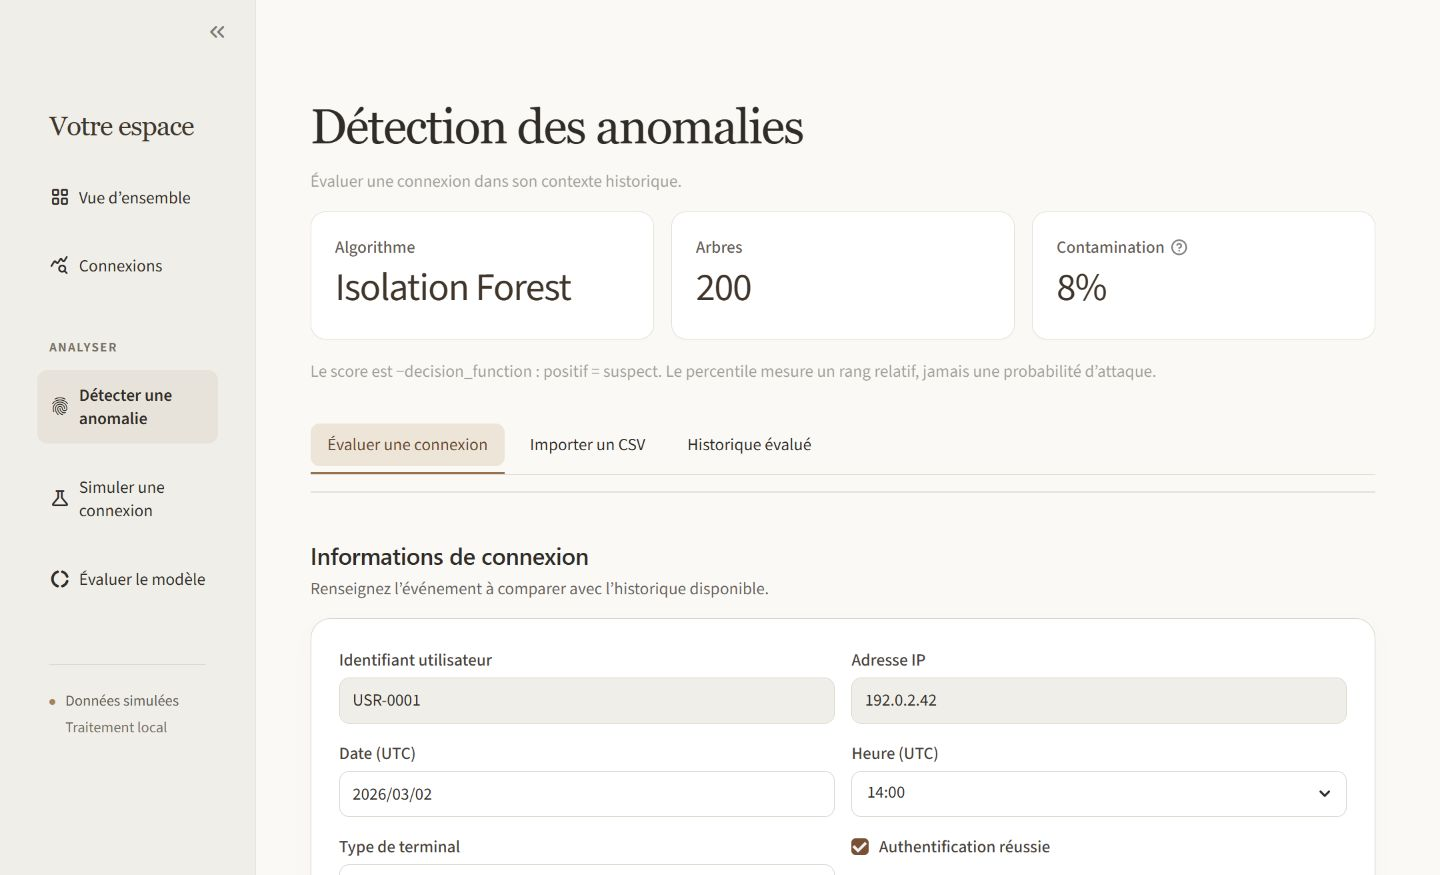
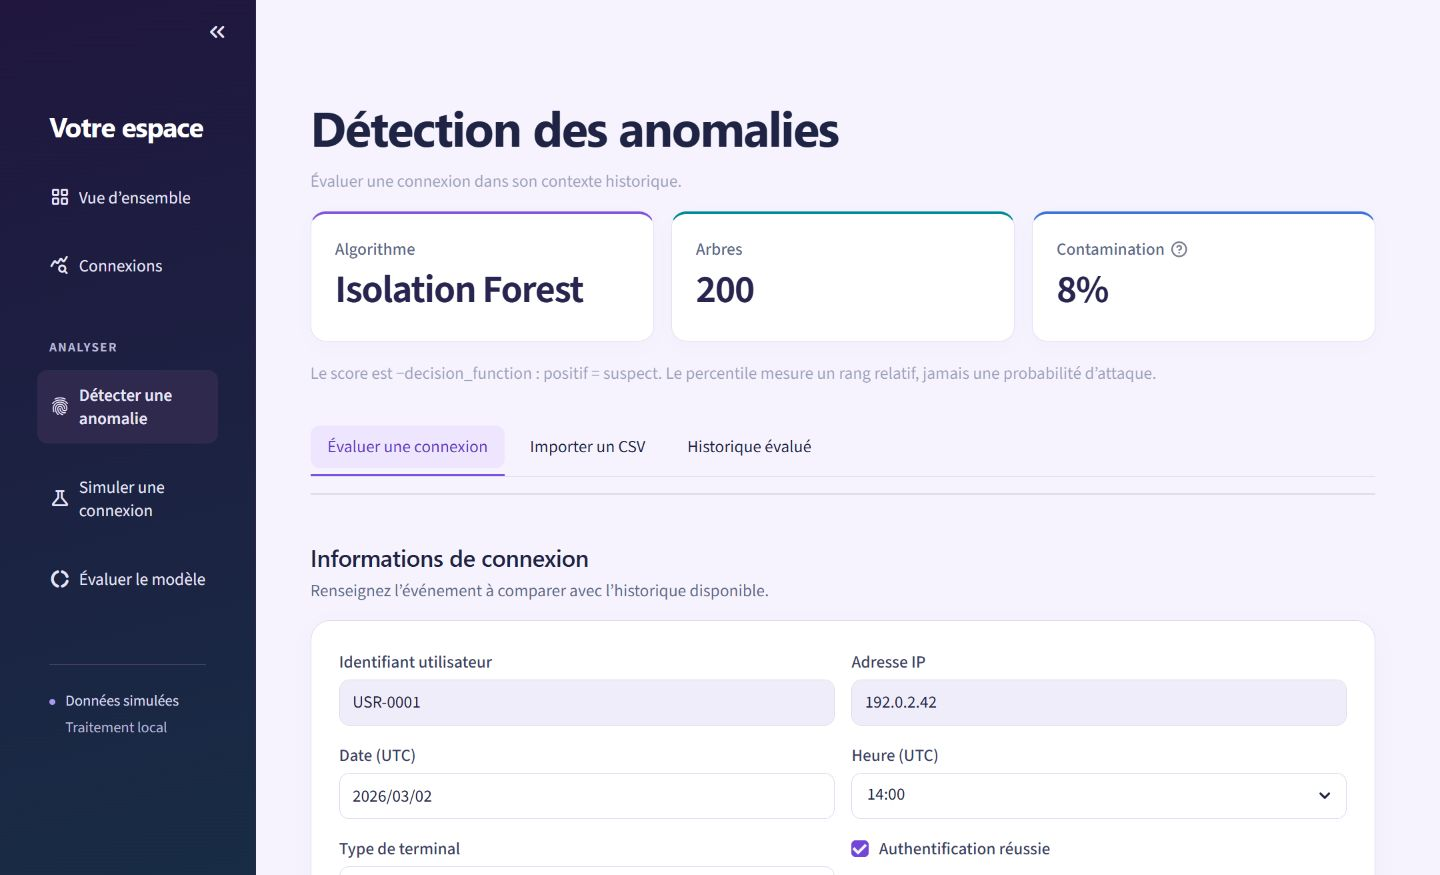
style: adopt midnight lavender and colorful card palette

diff --git a/assets/style.css b/assets/style.css
@@ -1,56 +1,69 @@
-/* Warm, editorial workspace: local system fonts and accessible native controls. */
-:root {--ink:#302d29;--muted:#68635c;--accent:#795034;--line:#e4dfd6;--paper:#faf9f6;}
+/* Midnight sidebar, lavender canvas and colorful accents on white cards. */
+:root {--ink:#202444;--muted:#60698a;--accent:#7146d9;--line:#e4dff2;--paper:#f6f3ff;}
 html,body,[data-testid="stApp"] {font-family:"Segoe UI",Arial,sans-serif;color:var(--ink);}
 .stApp {background:var(--paper);}
 .block-container {max-width:1300px;padding:3.5rem 3.2rem 5rem;}
-[data-testid="stHeader"] {background:rgba(250,249,246,.94);}
-[data-testid="stSidebar"] {background:#f0eee8;border-right:1px solid #e5e0d8;}
+[data-testid="stHeader"] {background:rgba(246,243,255,.95);}
+[data-testid="stSidebar"] {background:linear-gradient(165deg,#20163e 0%,#172f46 100%);border-right:1px solid #30264b;}
 [data-testid="stSidebarUserContent"] {padding:24px 16px;}
-.nav-heading {font-family:Georgia,serif;font-size:27px;letter-spacing:-.6px;padding:0 12px 24px;color:#40372f;}
-.nav-group {font-size:13px;font-weight:650;letter-spacing:1.4px;color:#777065;margin:28px 12px 12px;}
+.nav-heading {font-family:"Segoe UI",Arial,sans-serif;font-weight:700;font-size:27px;letter-spacing:-.6px;padding:0 12px 24px;color:#ffffff;}
+.nav-group {font-size:13px;font-weight:650;letter-spacing:1.4px;color:#b6b6d6;margin:28px 12px 12px;}
 [data-testid="stPageLink"] {margin:5px 0;}
 [data-testid="stPageLink"] a {padding:13px 12px;border-radius:10px;min-height:48px;transition:background .15s ease;}
-[data-testid="stPageLink"] a:hover {background:#e8e3da;}
-[data-testid="stPageLink"] a[aria-current="page"] {background:#e6dfd3;color:#5c402d;}
+[data-testid="stPageLink"] a:hover {background:#30294e;}
+[data-testid="stPageLink"] a[aria-current="page"] {background:#443069;color:#ffffff;}
 [data-testid="stPageLink"] p {white-space:normal;line-height:1.4!important;font-size:16px!important;}
-.nav-footer {border-top:1px solid #ddd7cd;margin:42px 12px 0;padding-top:22px;font-size:15px;color:#635b52;line-height:1.8;}
-.nav-footer>span:last-child {color:#777065;padding-left:16px;}
-.context-dot {display:inline-block;height:6px;width:6px;background:#a4835e;border-radius:50%;margin-right:10px;vertical-align:middle;}
-h1 {font-family:Georgia,"Times New Roman",serif!important;font-weight:400!important;font-size:clamp(2.2rem,3.4vw,3.2rem)!important;letter-spacing:-1.5px!important;line-height:1.16!important;padding-bottom:12px!important;}
+.nav-footer {border-top:1px solid #49415e;margin:42px 12px 0;padding-top:22px;font-size:15px;color:#d9d8ed;line-height:1.8;}
+.nav-footer>span:last-child {color:#b6b6d6;padding-left:16px;}
+.context-dot {display:inline-block;height:6px;width:6px;background:#a899ef;border-radius:50%;margin-right:10px;vertical-align:middle;}
+h1 {font-family:"Segoe UI",Arial,sans-serif!important;font-weight:700!important;font-size:clamp(2.2rem,3.4vw,3.2rem)!important;letter-spacing:-1.5px!important;line-height:1.16!important;padding-bottom:12px!important;}
 h2,h3 {font-family:"Segoe UI",Arial,sans-serif!important;color:var(--ink);letter-spacing:-.5px;font-weight:600!important;}
 [data-testid="stCaptionContainer"] p {color:var(--muted)!important;font-size:17px!important;line-height:1.65;max-width:920px;}
-.context-strip {display:flex;flex-wrap:wrap;gap:10px 22px;border-bottom:1px solid var(--line);padding:12px 0 24px;margin:6px 0 24px;color:#71675c;font-size:15px;}
-.context-strip span+span {border-left:1px solid #d7cbbb;padding-left:22px;}
+.context-strip {display:flex;flex-wrap:wrap;gap:10px 22px;border-bottom:1px solid var(--line);padding:12px 0 24px;margin:6px 0 24px;color:#667092;font-size:15px;}
+.context-strip span+span {border-left:1px solid #ddd5ee;padding-left:22px;}
 .section-heading {margin:32px 0 16px;}
 .section-heading h3 {font-size:23px;margin:0;padding:0;}
 .section-heading p {font-size:16px;line-height:1.6;color:var(--muted);margin:6px 0 0;}
-[data-testid="stMetric"] {background:#fff;border:1px solid var(--line);border-radius:15px;padding:22px 24px;min-height:124px;box-shadow:0 2px 3px #302d2903;}
-[data-testid="stMetricLabel"] p {color:#686057;font-size:16px!important;font-weight:500;}
-[data-testid="stMetricValue"] {font-family:Georgia,serif;font-size:2.3rem;letter-spacing:-1px;color:#40352b;font-weight:400;}
-[data-testid="stPlotlyChart"] {background:white;border:1px solid #cbbba6;border-radius:16px;overflow:hidden;}
+[data-testid="stMetric"] {background:#fff;border:1px solid var(--line);border-radius:15px;padding:22px 24px;min-height:124px;box-shadow:0 2px 3px #20244403;}
+[data-testid="stMetricLabel"] p {color:#60698a;font-size:16px!important;font-weight:500;}
+[data-testid="stMetricValue"] {font-family:"Segoe UI",Arial,sans-serif;font-size:2.3rem;letter-spacing:-1px;color:#282650;font-weight:650;}
+[data-testid="stPlotlyChart"] {background:white;border:1px solid #ded8ef;border-radius:16px;overflow:hidden;}
 [data-testid="stExpander"] {background:#fff;border-radius:13px;}
 [data-testid="stExpander"] details {border:1px solid var(--line);border-radius:13px;}
 [data-testid="stExpander"] summary {padding:14px 18px;font-size:17px;}
 [data-testid="stDataFrame"] {border:1px solid var(--line);border-radius:13px;overflow:hidden;}
-[data-testid="stForm"] {background:#fff;border:1px solid #d9d0c3;border-radius:20px;padding:28px;box-shadow:0 7px 24px #352b1f05;}
-[data-testid="stWidgetLabel"] p {font-size:16px!important;font-weight:500;color:#49433c;}
-[data-baseweb="input"],[data-baseweb="select"]>div {background:#fff;border-radius:10px;min-height:46px;border-color:#d7d0c6;}
+[data-testid="stForm"] {background:#fff;border:1px solid #ded8ef;border-radius:20px;padding:28px;box-shadow:0 7px 24px #45378208;}
+[data-testid="stWidgetLabel"] p {font-size:16px!important;font-weight:500;color:#3b4264;}
+[data-baseweb="input"],[data-baseweb="select"]>div {background:#fff;border-radius:10px;min-height:46px;border-color:#ddd7ed;}
 [data-baseweb="input"] input,[data-baseweb="select"] {font-size:17px!important;}
 [data-baseweb="tab-list"] {gap:8px;border-bottom:1px solid var(--line);padding-bottom:8px;margin:22px 0 16px;}
 [data-baseweb="tab"] {padding:12px 17px;border-radius:9px;background:transparent;}
-[data-baseweb="tab"][aria-selected="true"] {background:#eee5d9;color:#69482e;}
-[data-baseweb="tab-highlight"] {background:#95714d;height:2px;}
-.stButton>button,.stDownloadButton>button,[data-testid="stFormSubmitButton"] button {border-radius:11px;padding:11px 18px;min-height:48px;font-weight:600;border-color:#d7cbbb;}
-.stButton>button:hover,.stDownloadButton>button:hover {background:#f3ece2;border-color:#a0805e;color:#65462e;}
-button[kind="primary"] {background:#795034;color:#fff;border-color:#795034;}
-button[kind="primary"]:hover {background:#64412b!important;color:#fff!important;}
+[data-baseweb="tab"][aria-selected="true"] {background:#eee6ff;color:#6439c4;}
+[data-baseweb="tab-highlight"] {background:#7952df;height:2px;}
+.stButton>button,.stDownloadButton>button,[data-testid="stFormSubmitButton"] button {border-radius:11px;padding:11px 18px;min-height:48px;font-weight:600;border-color:#ddd5ee;}
+.stButton>button:hover,.stDownloadButton>button:hover {background:#f1ebff;border-color:#9b7ce5;color:#6439c4;}
+button[kind="primary"] {background:#7146d9;color:#fff;border-color:#7146d9;}
+button[kind="primary"]:hover {background:#5d32b7!important;color:#fff!important;}
 [data-testid="stMarkdownContainer"] p,button p,[data-baseweb="tab"] p {font-size:17px!important;line-height:1.55;}
 [data-testid="stAlert"] {border-radius:13px;font-size:16px;}
-[data-testid="stFileUploaderDropzone"] {background:#fff;border:1px dashed #bda587;border-radius:16px;padding:24px;}
-.hero {border:1px dashed #c9b79e;background:#fffdf9;border-radius:18px;padding:38px 30px;margin:22px 0;text-align:center;}
+[data-testid="stFileUploaderDropzone"] {background:#fff;border:1px dashed #b3a2dc;border-radius:16px;padding:24px;}
+.hero {border:1px dashed #c3b6e3;background:#fcfaff;border-radius:18px;padding:38px 30px;margin:22px 0;text-align:center;}
 .hero b {font-family:Georgia,serif;font-size:26px;font-weight:400;}
 .hero p {font-size:17px;color:var(--muted);margin:12px 0 0;}
 [data-testid="stAppDeployButton"] {display:none;}
 @media(max-width:1000px){.block-container{padding:3rem 1.4rem;}[data-testid="stMetric"]{padding:18px;}[data-testid="stMetricValue"]{font-size:2rem;}}
 @media(max-width:640px){.block-container{padding:2.5rem 1rem;}h1{font-size:2.3rem!important;letter-spacing:-.8px!important;}.context-strip{display:block;}.context-strip span{display:block;margin:6px 0;}.context-strip span+span{border:0;padding:0;}[data-testid="stForm"]{padding:18px;}[data-baseweb="tab"]{padding:10px;} }
 @media(prefers-reduced-motion:reduce){*{transition:none!important;}}
+
+/* Keep navigation readable against the dark sidebar. */
+[data-testid="stSidebar"] [data-testid="stPageLink"] a,
+[data-testid="stSidebar"] [data-testid="stPageLink"] p,
+[data-testid="stSidebar"] [data-testid="stIconMaterial"] {color:#e6e3f6!important;}
+[data-testid="stSidebar"] [data-testid="stPageLink"] a[aria-current="page"] {background:#443069;border-left:3px solid #a67bfa;}
+[data-testid="stSidebarCollapseButton"] button {color:#e6e3f6;}
+[data-testid="stColumn"]:nth-child(3n+1) [data-testid="stMetric"] {border-top:3px solid #8055df;}
+[data-testid="stColumn"]:nth-child(3n+2) [data-testid="stMetric"] {border-top:3px solid #008b98;}
+[data-testid="stColumn"]:nth-child(3n) [data-testid="stMetric"] {border-top:3px solid #3d74db;}
+[data-testid="stMetric"] {box-shadow:0 5px 18px #55448806;}
+[data-testid="stColumn"]:nth-child(2n+1) [data-testid="stPlotlyChart"] {border-top:3px solid #8055df;}
+[data-testid="stColumn"]:nth-child(2n) [data-testid="stPlotlyChart"] {border-top:3px solid #008b98;}

diff --git a/src/ui.py b/src/ui.py
@@ -7,8 +7,9 @@ from src.utils import ROOT, DATA, MODEL
 from src.predict import load_model, predict
 from src.preprocessing import safe_csv
 
-COLORS = ['#eee2cf','#d8c3a5','#f5eddf','#e4d2b8','#cfb997']
-CHART_OUTLINE = '#92795b'
+COLORS = ['#ddd2f8','#bce3e5','#c8d9fa','#eccbdd','#d7ccef']
+SERIES_OUTLINES = ['#7952d1','#078695','#3d70d4','#ba4c88','#6850ba']
+CHART_OUTLINE = '#7952d1'
 px.defaults.color_discrete_sequence = COLORS
 LABELS = {
     'event_id':'Événement','user_id':'Utilisateur','timestamp':'Date et heure',
@@ -74,26 +75,27 @@ def chart(fig):
     # Light fills and visible edges shared by every chart on every page.
     for index, trace in enumerate(fig.data):
         fill = COLORS[index % len(COLORS)]
+        outline = SERIES_OUTLINES[index % len(SERIES_OUTLINES)]
         if trace.type in ('bar', 'histogram'):
-            trace.update(marker=dict(color=fill,line=dict(color=CHART_OUTLINE,width=1.2)))
+            trace.update(marker=dict(color=fill,line=dict(color=outline,width=1.2)))
         elif trace.type == 'pie':
             trace.update(marker=dict(colors=COLORS,line=dict(color=CHART_OUTLINE,width=1.3)))
         elif trace.type == 'scatter':
-            trace.update(line=dict(color=['#92795b','#51473c','#b0916c'][index % 3],
+            trace.update(line=dict(color=outline,
                                    width=2,dash=['solid','dash','dot'][index % 3]),
-                         marker=dict(color=fill,size=7,line=dict(color=CHART_OUTLINE,width=1.2)))
+                         marker=dict(color=fill,size=7,line=dict(color=outline,width=1.2)))
             if trace.stackgroup or (trace.fill and trace.fill != 'none'):
                 trace.update(fillcolor=fill)
         elif trace.type == 'heatmap':
             trace.update(xgap=1,ygap=1)
-    fig.update_coloraxes(colorscale=['#faf5eb','#eee2cf','#dfccb0','#cbb390'])
+    fig.update_coloraxes(colorscale=['#faf8ff','#e4daf9','#baa6e4','#7952d1'])
     fig.update_layout(template='plotly_white', paper_bgcolor='#ffffff',plot_bgcolor='#ffffff',
-                      colorway=COLORS, font=dict(family='Segoe UI, Arial',color='#5e5951',size=16),
-                      title=dict(font=dict(size=20,color='#302d29'),x=.04,y=.94),
+                      colorway=COLORS, font=dict(family='Segoe UI, Arial',color='#60698a',size=16),
+                      title=dict(font=dict(size=20,color='#202444'),x=.04,y=.94),
                       margin=dict(l=25,r=25,t=80,b=80),height=390,legend_title_text='',
                       legend=dict(orientation='h',y=-.22,x=0,xanchor='left',yanchor='top'))
     fig.update_xaxes(showgrid=False)
-    fig.update_yaxes(gridcolor='#efede9',zerolinecolor='#efede9')
+    fig.update_yaxes(gridcolor='#efedf6',zerolinecolor='#efedf6')
     # Translate visible labels without changing source data or exported column names.
     for axis in (fig.layout.xaxis, fig.layout.yaxis):
         if axis.title.text in LABELS:

diff --git a/pages/1_Overview.py b/pages/1_Overview.py
@@ -21,7 +21,7 @@ else:
     with b:
         donut = px.pie(frame,names='status',hole=.78,title='Décisions du modèle',color='status',color_discrete_map={'Normal':COLORS[0],'Suspect':COLORS[1]})
         donut.update_traces(textinfo='none',marker=dict(line=dict(color='white',width=4)))
-        donut.add_annotation(text=f'<b>{frame.prediction.mean():.1%}</b><br><span style="font-size:15px">suspects</span>',x=.5,y=.5,showarrow=False,font=dict(size=25,color='#302d29'))
+        donut.add_annotation(text=f'<b>{frame.prediction.mean():.1%}</b><br><span style="font-size:15px">suspects</span>',x=.5,y=.5,showarrow=False,font=dict(size=25,color='#202444'))
         chart(donut)
     section('03','Connexions à vérifier','Les 100 connexions suspectes les plus récentes dans votre sélection.')
     table(frame[frame.prediction==1].sort_values('timestamp',ascending=False).head(100)[['event_id','user_id','timestamp','source_ip','failed_attempts','anomaly_score','severity']],'recent')

diff --git a/README.md b/README.md
@@ -16,7 +16,7 @@ Les connexions inhabituelles peuvent justifier une vérification complémentaire
 - **Simulation** : événements normaux, suspects ou aléatoires ; contexte explicite et réinitialisation de session.
 - **Performance** : matrice de confusion, précision, rappel, F1, accuracy, ROC-AUC, Average Precision, comparaison aux règles et sensibilité au seuil.
 
-L’interface épurée associe un fond blanc cassé, des cartes blanches et quelques accents marron et caramel sur les contrôles et les graphiques. La navigation avec icônes, les cartes de synthèse et les graphiques Plotly partagent la même identité visuelle. Aucun indicateur ne représente une mesure de trafic réel.
+L’interface épurée associe une barre latérale bleu nuit, un fond lavande clair, des cartes blanches et des accents violet, turquoise et bleu. La navigation avec icônes, les cartes de synthèse et les graphiques Plotly partagent la même identité visuelle. Aucun indicateur ne représente une mesure de trafic réel.
 
 ## Technologies
 
@@ -24,9 +24,9 @@ Python 3.11 (version testée), Pandas 2.3.3, NumPy 2.2.6, Scikit-learn 1.7.2, St
 
 ## Interface
 
-L’interface ne porte aucun nom de produit. Les textes courants utilisent une taille de 17 px, les titres une police à empattements et les intitulés décrivent directement les fonctions.
+L’interface ne porte aucun nom de produit. Les textes courants utilisent une taille de 17 px, les titres une police sans empattements en gras et les intitulés décrivent directement les fonctions.
 
-Refonte du 11 novembre 2026 : fond crème, navigation latérale compacte, titres Georgia et textes Segoe UI, indicateurs sur deux rangées, filtres repliables, formulaires espacés et tableaux aux lignes plus hautes. Les graphiques conservent leurs remplissages beige clair et leurs contours foncés. Aucun service de polices externe n’est utilisé.
+Refonte du 11 novembre 2026 : fond lavande, navigation latérale bleu nuit, titres et textes Segoe UI, indicateurs sur deux rangées, filtres repliables, formulaires espacés et tableaux aux lignes plus hautes. Les graphiques utilisent des remplissages pastel et des contours violet, turquoise ou bleu. Aucun service de polices externe n’est utilisé.
 
 ![Vue de sécurité — interface actuelle](docs/screenshots/overview-current.jpg)
 
